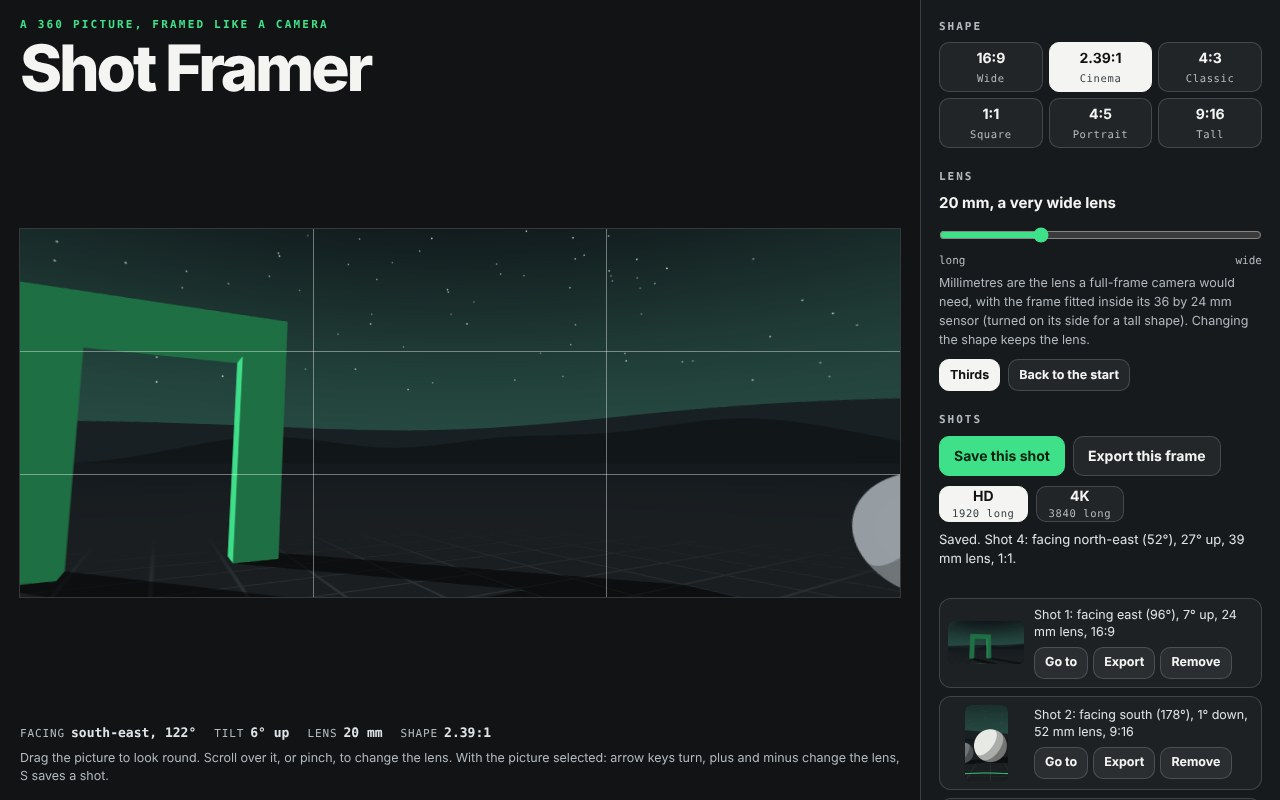
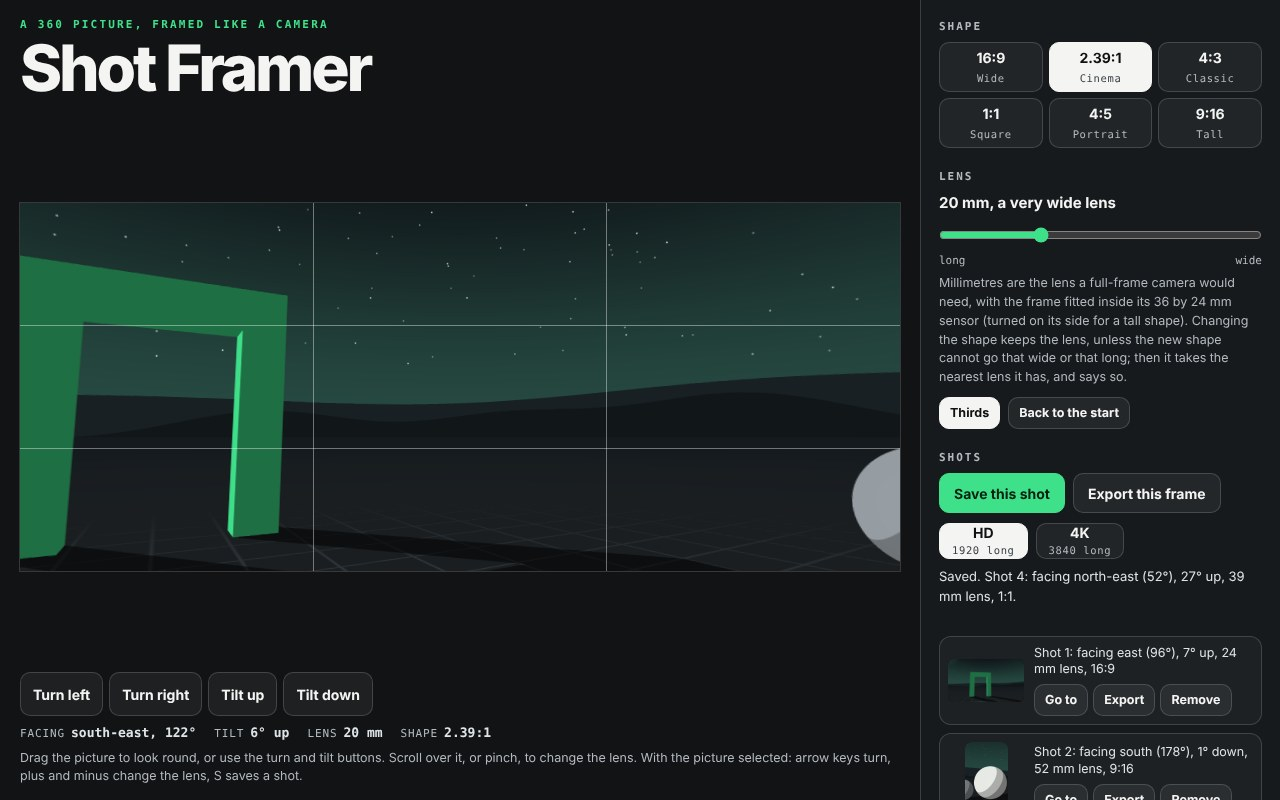
Shot Framer: act on the outside review
- Changing the shape at either end of the lens range now says when the
  new shape cannot keep the lens and what it used instead (reshape and
  lensRange in pano.js, tested at every whole degree and both ends).
- A picture that finishes opening after a later choice, or after Back to
  the sample, is thrown away; tested with a held-back decoder.
- Turn left, Turn right, Tilt up and Tilt down buttons, 44 px or more,
  so looking round does not need dragging.
- The on-screen pixel check now compares every pixel, not the first 1,000.
- README Status and REVIEW.md say plainly that merging puts the unlisted
  page live at its own address; REVIEW.md records the outside review.

Claude-Session: https://claude.ai/code/session_013B6jEDQfd86RBiChYmYX6U

diff --git a/demos/shot-framer/js/app.js b/demos/shot-framer/js/app.js
@@ -6,7 +6,7 @@ const el = (tag, props = {}, ...kids) => { const n = Object.assign(document.crea
 const blank = (w, h) => ({ data: new Uint8ClampedArray(w * h * 4), width: w, height: h });
 const view = $('view'), ctx = view.getContext('2d', { willReadFrequently: true }), frame = $('frame'), well = $('well');
 
-let src = null, srcName = 'sample', view0 = { ...P.HOME }, shape = '16:9', shots = [], count = 0, frames = 0, sharp = null, busy = false, job = 0;
+let src = null, srcName = 'sample', view0 = { ...P.HOME }, shape = '16:9', shots = [], count = 0, frames = 0, sharp = null, busy = false, job = 0, asked = 0; /* asked counts the pictures asked for: a picture that finishes opening after a later one was asked for is thrown away */
 const own = () => srcName !== 'sample'; /* your own picture has no north: its middle is called ahead */
 const ratio = () => { const a = P.aspectOf(shape); return a.w / a.h; };
 const say = text => { $('status').textContent = text; };
@@ -26,15 +26,19 @@ function read() { const d = P.describe(view0, shape, own()), mm = Math.round(P.l
   $('r-head').textContent = `${d.compass}, ${d.heading}`; $('r-tilt').textContent = d.tilt; $('r-lens').textContent = d.lens; $('r-shape').textContent = d.shape; $('lens-words').textContent = `${mm} mm, ${kind}`; $('fov').value = String(Math.round(view0.fov)); $('fov').setAttribute('aria-valuetext', `${mm} millimetres, ${kind}`);
   view.setAttribute('aria-label', `The frame: facing ${d.compass}, ${d.heading.replace('°', ' degrees')}, ${d.tilt.replace('°', ' degrees')}, ${d.lens.replace(' mm', ' millimetre')} lens, shape ${d.shape.replace(':', ' by ')}.`); }
 function turn(change) { view0 = P.tidy({ yaw: view0.yaw + (change.yaw || 0), pitch: view0.pitch + (change.pitch || 0), fov: change.fov ?? view0.fov * (change.zoom || 1) }); paint(); }
-/* Changing the shape keeps the lens, as turning a camera on its side does: the view is worked out again for the new shape from the same millimetres. Going to a saved shot takes that shot's view as it was saved. */
-function setShape(id, to = null) { const mm = P.lens(view0.fov, ratio()); shape = P.aspectOf(id).id; view0 = P.tidy(to ? { ...to } : { ...view0, fov: P.fovFor(mm, ratio()) }); for (const i of document.querySelectorAll('input[name="shape"]')) i.checked = i.value === shape; fit(); }
+/* Changing the shape keeps the lens, as turning a camera on its side does: the view is worked out again for the new shape from the same millimetres. Going to a saved shot takes that shot's view as it was saved.
+   At the very ends of the lens range a shape cannot always have the lens the last one had (no 9:16 frame is as wide as the widest 16:9). Then it takes the nearest lens it has, and the page says so. */
+function setShape(id, to = null) { const next = P.aspectOf(id).id, r = to ? null : P.reshape(view0, shape, next); shape = next; view0 = to ? P.tidy({ ...to }) : r.view; for (const i of document.querySelectorAll('input[name="shape"]')) i.checked = i.value === shape; fit(); return r; }
+const shaped = r => { clearTimeout(telling); return shapeWords(r); }; /* a pending "Facing ..." from the keys would otherwise speak over this */
+const shapeWords = r => `Shape ${shape.replace(':', ' by ')}.` + (r && !r.kept ? ` A ${shape.replace(':', ' by ')} frame cannot go as ${r.got > r.mm ? 'wide' : 'long'} as ${Math.round(r.mm)} mm, so the lens is now ${Math.round(r.got)} mm, the ${r.got > r.mm ? 'widest' : 'longest'} it has.` : '');
 
 /* ---- The picture ---- */
 /* The sample is worked out a direction at a time. A small one first, so there is something to look at straight away; then a large one, a slice at a time, swapped in when it is done. */
-function useSample() { const mine = ++job, quick = blank(1024, 512); quick.sample = 'soft'; P.paintSample(quick); src = quick; srcName = 'sample'; $('pic').textContent = 'The sample: a sculpture park at night, drawn by this page. Sharpening it…'; $('sample').hidden = true; paint();
+function useSample() { asked++; const mine = ++job, quick = blank(1024, 512); quick.sample = 'soft'; P.paintSample(quick); src = quick; srcName = 'sample'; $('pic').textContent = 'The sample: a sculpture park at night, drawn by this page. Sharpening it…'; $('sample').hidden = true; paint();
   const full = blank(4096, 2048); let row = 0; const slice = () => { if (mine !== job) return; const to = Math.min(full.height, row + 48); P.paintSample(full, [row, to]); row = to; if (row < full.height) { $('pic').textContent = `The sample: a sculpture park at night, drawn by this page. Sharpening it: ${Math.round(row / full.height * 100)}%`; setTimeout(slice, 0); } else { src = full; $('pic').textContent = 'The sample: a sculpture park at night, drawn by this page, 4096 by 2048.'; paint(); thumbs(); } }; setTimeout(slice, 60); list(); }
 const kept = () => (shots.length ? ` Your ${shots.length === 1 ? 'saved shot is' : `${shots.length} saved shots are`} kept: a shot is a direction and a lens, so ${shots.length === 1 ? 'it' : 'each'} now frames this picture.` : '');
-async function useFile(file) { if (!file) return; if (!/^image\//.test(file.type)) { say('That is not a picture this page can open.'); return; } let bmp; try { bmp = await createImageBitmap(file); } catch (err) { say('That picture could not be opened.'); return; }
+async function useFile(file) { if (!file) return; const mine = ++asked; if (!/^image\//.test(file.type)) { say('That is not a picture this page can open.'); return; } let bmp; try { bmp = await createImageBitmap(file); } catch (err) { if (mine === asked) say('That picture could not be opened.'); return; }
+  if (mine !== asked) { bmp.close(); return; } /* another picture, or the sample, was asked for while this one was opening: the later choice stands */
   const bw = bmp.width, bh = bmp.height; if (bw < 64 || bh < 32) { bmp.close(); say(`That picture is ${bw} by ${bh}, which is too small to frame.`); return; }
   const k = Math.min(1, 8192 / bw, 4096 / bh), w = Math.max(2, Math.round(bw * k)), h = Math.max(1, Math.round(bh * k)); let img; try { const c = document.createElement('canvas'); c.width = w; c.height = h; const g = c.getContext('2d', { willReadFrequently: true }); g.drawImage(bmp, 0, 0, w, h); img = g.getImageData(0, 0, w, h); } catch (err) { say('That picture is too large for this device to open.'); return; } finally { bmp.close(); }
   job++; src = { data: img.data, width: w, height: h }; srcName = file.name;
@@ -62,7 +66,7 @@ async function put(shot, word = 'shot') { try { say(`Drawing ${word} ${shot.n}.`
 async function save(shot, word = 'shot') { if (!src) return null; if (busy) { say('Still exporting. Wait for it to finish.'); return null; } lock(true); const made = await put(shot, word); lock(false); return made; }
 
 /* ---- Controls ---- */
-$('shapes').append(...P.ASPECTS.map(a => el('label', { className: 'seg' }, el('input', { type: 'radio', name: 'shape', value: a.id, checked: a.id === shape, onchange: () => { setShape(a.id); say(`Shape ${a.id.replace(':', ' by ')}.`); } }), el('span', {}, a.id, el('small', { textContent: a.name })))));
+$('shapes').append(...P.ASPECTS.map(a => el('label', { className: 'seg' }, el('input', { type: 'radio', name: 'shape', value: a.id, checked: a.id === shape, onchange: () => say(shaped(setShape(a.id))) }), el('span', {}, a.id, el('small', { textContent: a.name })))));
 const fingers = new Map(); let spread = 0, grab = null;
 const place = e => { const box = view.getBoundingClientRect(); return [(e.clientX - box.left) / box.width * 2 - 1, 1 - (e.clientY - box.top) / box.height * 2]; }; /* where in the frame a pointer is: -1 to 1 across, -1 to 1 up */
 view.addEventListener('pointerdown', e => { e.preventDefault(); view.focus({ preventScroll: true }); try { view.setPointerCapture(e.pointerId); } catch (err) { /* works without */ } fingers.set(e.pointerId, [e.clientX, e.clientY]); view.classList.add('drag'); grab = fingers.size === 1 ? P.look(view0, ...place(e), ratio()) : null; if (fingers.size === 2) { const [a, b] = [...fingers.values()]; spread = Math.hypot(a[0] - b[0], a[1] - b[1]); } });
@@ -75,8 +79,10 @@ view.addEventListener('wheel', e => { if (stacked.matches && document.activeElem
 const home = () => { view0 = shape === '16:9' ? { ...P.HOME } : P.tidy({ ...P.HOME, fov: P.fovFor(P.lens(P.HOME.fov, 16 / 9), ratio()) }); paint(); }; /* the start: straight ahead, a little up, through a 24 mm lens whatever the shape */
 let telling = null; const tell = () => { clearTimeout(telling); telling = setTimeout(() => { const d = P.describe(view0, shape, own()); say(`Facing ${d.compass}, ${d.heading}, ${d.tilt}, ${d.lens} lens.`); }, 450); }; /* after the keys have moved the frame, say where it now looks, once they have stopped */
 view.addEventListener('keydown', e => { if (e.ctrlKey || e.metaKey || e.altKey) return; const by = e.shiftKey ? 1 : 5, key = e.key.length === 1 ? e.key.toLowerCase() : e.key, move = { ArrowLeft: { yaw: -by }, ArrowRight: { yaw: by }, ArrowUp: { pitch: by }, ArrowDown: { pitch: -by }, '+': { zoom: 0.9 }, '=': { zoom: 0.9 }, '-': { zoom: 1.1 } }[key];
-  if (move) { turn(move); tell(); e.preventDefault(); } else if (key === 'Home') { home(); tell(); e.preventDefault(); } else if (key === 's') keep(); else if (key === 'g') $('grid').click(); else if (/^[1-6]$/.test(key)) { setShape(P.ASPECTS[+key - 1].id); say(`Shape ${shape.replace(':', ' by ')}.`); } });
+  if (move) { turn(move); tell(); e.preventDefault(); } else if (key === 'Home') { home(); tell(); e.preventDefault(); } else if (key === 's') keep(); else if (key === 'g') $('grid').click(); else if (/^[1-6]$/.test(key)) say(shaped(setShape(P.ASPECTS[+key - 1].id))); });
 $('fov').addEventListener('input', e => turn({ fov: +e.target.value }));
+/* Buttons that turn and tilt the frame by 10 degrees a press: a way to look round with one tap or click, for anyone who cannot drag. */
+for (const b of document.querySelectorAll('#turns button')) b.addEventListener('click', () => { turn({ yaw: +(b.dataset.yaw || 0), pitch: +(b.dataset.pitch || 0) }); tell(); });
 $('grid').addEventListener('click', () => { const on = $('thirds').hidden; $('thirds').hidden = !on; $('grid').setAttribute('aria-pressed', String(on)); });
 $('home').addEventListener('click', () => { home(); say('Back to the start.'); });
 $('save').addEventListener('click', keep); $('export').addEventListener('click', () => { if (!busy) frames++; save({ n: frames, view: { ...view0 }, shape }, 'frame'); }); /* the frame as it stands, without saving a shot: its files are numbered on their own, frame-01, frame-02 */
@@ -91,6 +97,6 @@ list(); useSample(); fit();
 window.shotFramer = { /* for the checks in tools/ */
   state: () => ({ view: { ...view0 }, shape, shots: shots.map(s => ({ n: s.n, view: { ...s.view }, shape: s.shape })), src: src ? { width: src.width, height: src.height, name: srcName } : null, canvas: { w: view.width, h: view.height }, busy, frames, mm: P.lens(view0.fov, ratio()) }),
   set(v, id) { if (id) setShape(id, { ...view0, ...v }); else { view0 = P.tidy({ ...view0, ...v }); paint(); } paint(false); }, make: (shot, long) => make(shot, long).then(m => m.blob.arrayBuffer().then(b => { let sum = 0; for (let i = 0; i < m.data.length; i += 7) sum = (sum * 31 + m.data[i]) >>> 0; return { name: m.name, size: m.size, bytes: b.byteLength, head: [...new Uint8Array(b.slice(0, 26))], sum, soft: m.soft }; })),
-  use(w, h, rgb) { job++; const data = new Uint8ClampedArray(w * h * 4); for (let i = 0; i < data.length; i += 4) { data[i] = rgb[0]; data[i + 1] = rgb[1]; data[i + 2] = rgb[2]; data[i + 3] = 255; } src = { data, width: w, height: h }; srcName = 'test'; paint(); list(); }, /* swap in a plain picture of one colour: for checking that a file being drawn is not disturbed */
-  pixels(w, h) { const img = blank(w, h); P.render(src, view0, img); return [...img.data]; }, shown() { clearTimeout(sharp); paint(false); return [...ctx.getImageData(0, 0, view.width, view.height).data.slice(0, 4000)]; },
+  use(w, h, rgb) { asked++; job++; const data = new Uint8ClampedArray(w * h * 4); for (let i = 0; i < data.length; i += 4) { data[i] = rgb[0]; data[i + 1] = rgb[1]; data[i + 2] = rgb[2]; data[i + 3] = 255; } src = { data, width: w, height: h }; srcName = 'test'; paint(); list(); }, /* swap in a plain picture of one colour: for checking that a file being drawn is not disturbed */
+  pixels(w, h) { const img = blank(w, h); P.render(src, view0, img); return [...img.data]; }, shown() { clearTimeout(sharp); paint(false); const d = ctx.getImageData(0, 0, view.width, view.height).data; let s = ''; for (let i = 0; i < d.length; i += 0x8000) s += String.fromCharCode(...d.subarray(i, i + 0x8000)); return btoa(s); }, /* every pixel on screen, packed as text so that a large frame comes across quickly */
 };

diff --git a/demos/shot-framer/index.html b/demos/shot-framer/index.html
@@ -34,6 +34,8 @@
   #thirds { position:absolute; inset:0; pointer-events:none; background:linear-gradient(to right, transparent calc(33.333% - .5px), rgba(255,255,255,.4) calc(33.333% - .5px), rgba(255,255,255,.4) calc(33.333% + .5px), transparent calc(33.333% + .5px), transparent calc(66.666% - .5px), rgba(255,255,255,.4) calc(66.666% - .5px), rgba(255,255,255,.4) calc(66.666% + .5px), transparent calc(66.666% + .5px)), linear-gradient(to bottom, transparent calc(33.333% - .5px), rgba(255,255,255,.4) calc(33.333% - .5px), rgba(255,255,255,.4) calc(33.333% + .5px), transparent calc(33.333% + .5px), transparent calc(66.666% - .5px), rgba(255,255,255,.4) calc(66.666% - .5px), rgba(255,255,255,.4) calc(66.666% + .5px), transparent calc(66.666% + .5px)); }
   #read { display:flex; flex-wrap:wrap; gap:6px 18px; align-items:baseline; margin:0; font:600 13px/1.4 var(--mono); color:var(--soft); font-variant-numeric:tabular-nums; } #read span b { color:var(--muted); font-weight:500; margin-right:6px; letter-spacing:.08em; text-transform:uppercase; font-size:11px; }
   #hint { margin:6px 0 0; font-size:12.5px; color:var(--muted); }
+  #turns { display:grid; grid-template-columns:repeat(4, max-content); gap:6px; margin:0 0 8px; } .btn.turn { min-height:44px; min-width:44px; padding:0 12px; }
+  @media (max-width:420px) { #turns { grid-template-columns:1fr 1fr; } }
 
   /* The panel: shape, lens, shots. */
   #panel { border-left:1px solid var(--line); background:var(--panel); padding:18px 18px 28px; min-width:0; }
@@ -71,8 +73,9 @@
     </div>
   </div>
   <div>
+    <div class="row" id="turns" role="group" aria-label="Turn and tilt the frame, 10 degrees a press"><button class="btn turn" type="button" data-yaw="-10">Turn left</button><button class="btn turn" type="button" data-yaw="10">Turn right</button><button class="btn turn" type="button" data-pitch="10">Tilt up</button><button class="btn turn" type="button" data-pitch="-10">Tilt down</button></div>
     <p id="read" aria-hidden="true"><span><b>Facing</b><span id="r-head">north, 0°</span></span><span><b>Tilt</b><span id="r-tilt">level</span></span><span><b>Lens</b><span id="r-lens">24 mm</span></span><span><b>Shape</b><span id="r-shape">16:9</span></span></p>
-    <p id="hint">Drag the picture to look round. Scroll over it, or pinch, to change the lens. With the picture selected: arrow keys turn, plus and minus change the lens, S saves a shot.</p>
+    <p id="hint">Drag the picture to look round, or use the turn and tilt buttons. Scroll over it, or pinch, to change the lens. With the picture selected: arrow keys turn, plus and minus change the lens, S saves a shot.</p>
   </div>
 </main>
 
@@ -84,7 +87,7 @@
   <p class="lens" id="lens-words" aria-hidden="true">24 mm, a wide lens</p>
   <input id="fov" type="range" min="12" max="110" step="1" value="46" aria-labelledby="lens-h" aria-describedby="lens-note">
   <div class="ends" aria-hidden="true"><span>long</span><span>wide</span></div>
-  <p class="note" id="lens-note">Millimetres are the lens a full-frame camera would need, with the frame fitted inside its 36 by 24 mm sensor (turned on its side for a tall shape). Changing the shape keeps the lens.</p>
+  <p class="note" id="lens-note">Millimetres are the lens a full-frame camera would need, with the frame fitted inside its 36 by 24 mm sensor (turned on its side for a tall shape). Changing the shape keeps the lens, unless the new shape cannot go that wide or that long; then it takes the nearest lens it has, and says so.</p>
   <div class="row" style="margin-top:10px"><button class="btn small" id="grid" type="button" aria-pressed="true">Thirds</button><button class="btn small" id="home" type="button">Back to the start</button></div>
 
   <h2>Shots</h2>

diff --git a/demos/shot-framer/js/pano.js b/demos/shot-framer/js/pano.js
@@ -31,6 +31,12 @@ export const sensorHeight = ratio => (ratio >= 1.5 ? 36 / ratio : ratio >= 1 ? 2
 export const lens = (fov, ratio) => sensorHeight(ratio) / 2 / Math.tan(fov * RAD / 2);
 // And back: how tall the view is through a lens of so many millimetres. Changing the shape keeps the lens, as turning or cropping a camera does.
 export const fovFor = (mm, ratio) => 2 * Math.atan(sensorHeight(ratio) / 2 / mm) / RAD;
+// The lenses a shape can have, widest first, in millimetres: the view's limits in degrees are the same for every shape, so the lenses are not.
+export const lensRange = id => { const a = aspectOf(id), r = a.w / a.h; return [lens(LIMITS.fov[1], r), lens(LIMITS.fov[0], r)]; };
+// Changing the shape from one to another: the view keeps its lens if the new shape can have it. If it cannot (the widest 16:9 lens is wider than any 9:16 can be), the view takes the nearest lens the new shape has,
+// and kept is false, so that the page can say so. mm is the lens before, got the lens after.
+export function reshape(view, fromId, toId) { const a = aspectOf(fromId), b = aspectOf(toId), mm = lens(view.fov, a.w / a.h), v = tidy({ ...view, fov: fovFor(mm, b.w / b.h) }), got = lens(v.fov, b.w / b.h);
+  return { view: v, mm, got, kept: Math.abs(got - mm) < 1e-6 * mm }; }
 // Dragging: the view, near this one, that puts the direction d at the place (x, y) of the frame. What you take hold of stays under your finger, at any lens and any tilt.
 export function dragTo(view, d, x, y, ratio) { let v = tidy(view); const miss = w => { const p = inFrame(w, d, ratio); return p ? [p.x - x, p.y - y] : null; };
   for (let i = 0; i < 8; i++) { const e = miss(v); if (!e || Math.hypot(e[0], e[1]) < 1e-5) break; const h = 0.05, a = miss({ ...v, yaw: v.yaw + h }), b = miss({ ...v, pitch: v.pitch + h }); if (!a || !b) break;

diff --git a/demos/shot-framer/REVIEW.md b/demos/shot-framer/REVIEW.md
@@ -5,7 +5,7 @@ Built 17 November 2026 by Claude Fable 5.2 in a Claude Code cloud session. Revie
 
 ## Verdict
 
-Ready for Kol to try. Not published, not in the gallery or the sitemap.
+Ready for Kol to try. An unlisted draft: not in the gallery or the sitemap. It is not live yet, but merging it would put it on the live site at its own address, reachable by anyone with the link.
 
 **It has never been given a real 360 photograph.** Every picture it has framed was made for the checks or worked out by the page. The arithmetic is checked to the pixel; how a real stitched photograph looks through it, and how it feels to use, are unproved.
 
@@ -22,22 +22,23 @@ Ready for Kol to try. Not published, not in the gallery or the sitemap.
 
 ## Checks run (17 Nov 2026)
 
-Verified by running. All passed on the code as committed.
+Verified by running. All passed on the code as committed, and again after the outside review's fixes (below).
 
 - `node demos/shot-framer/tools/pano.test.mjs`: pass.
   - Directions: compass points, the edges of a frame, 500 round trips between frame, direction and picture. Straight lines stay straight.
   - The lens in millimetres for a frame fitted inside a 36 by 24 mm sensor: 55 degrees tall is 19.4 mm in 16:9, 14.5 mm in 2.39:1, 34.6 mm in 9:16.
-  - The lens is kept across all 36 changes of shape.
+  - The lens is kept across all 36 changes of shape, except where the new shape cannot have it. Checked at every whole degree of the slider: then the new lens is the nearest the shape has. At each end of the slider 14 changes cannot keep the lens, counted by hand; the widest 16:9 lens, 7.09 mm, becomes 12.60 mm in 9:16.
   - 20 drags, at lenses from 30 to 110 degrees, level and tilted: what was taken hold of ends under the pointer to a thousandth of the frame.
   - Drawing: a dot lands in the middle and moves as it should; turning equals sliding; no join where the edges meet; the poles; slices equal the whole.
   - Stripes one pixel wide, seen through a very wide lens in a small frame, come out an even grey.
   - The sample: the same every time, no join, eight things where they should be, the ring all the way round, shadows away from the moon, smooth edges, stars spread evenly.
 - `node demos/shot-framer/tools/smoke.mjs`: pass, in headless Chromium.
-  - The frame on screen matches the arithmetic pixel for pixel in all six shapes.
-  - Dragging with a mouse at an ordinary lens and at 110 degrees tilted keeps hold of what was touched. Changing the shape keeps the lens. Wheel, keys, slider and number keys work and stay within limits. After the keys move the frame, the page says where it looks.
+  - The frame on screen matches the arithmetic pixel for pixel in all six shapes, every pixel of the frame (until the outside review, only the first 1,000 pixels were read).
+  - Dragging with a mouse at an ordinary lens and at 110 degrees tilted keeps hold of what was touched. Changing the shape keeps the lens. Through the shape buttons and number keys at both ends of the lens, where it cannot, the page takes the nearest lens and says so in words. Four buttons, each at least 44 by 44 px, turn and tilt the frame 10 degrees a click, and 10 degrees a tap on three phone sizes. Wheel, keys, slider and number keys work and stay within limits. After the keys move the frame, the page says where it looks.
   - Three exported files are PNGs of the size asked whose pixels are the shot, drawn again by the check from the whole picture.
   - The frame as it stands exports as `frame-01`, `frame-02`. Export all sends each shot once, in order, with every other export button off; the status line changes at most 8 times for three files.
   - A file being drawn while another picture is loaded is made wholly from the picture it started with.
+  - A picture that finishes opening after a later one was chosen, or after Back to the sample, is thrown away. The test holds each picture's opening back and releases it in the wrong order.
   - Your own picture: its middle is straight ahead; shots read ahead, right, behind, left; a wrong shape is warned about; too small a picture and a file that is not a picture are refused in words.
   - Phones 390x800, 320x568 and 740x360, a 320 window, 900x700 and 1920x1080: the frame fits in every shape; a finger keeps hold of what it touched; Go to brings the frame back into sight; the wheel scrolls a narrow page until the picture is selected.
   - axe WCAG 2.2 A and AA at seven sizes, no console errors, no outside requests.
@@ -51,6 +52,8 @@ Verified by running. All passed on the code as committed.
 4. Safari and Firefox. A real screen reader.
 5. The fallback when copying the list is not allowed: headless Chromium always allowed it.
 6. Dropping a file on the page while an export is running, by hand.
+7. The turn and tilt buttons with a real finger, and whether 10 degrees a press is a comfortable step.
+8. The site's automatic checks on a pull request do not run this demo's own two tests (`pano.test.mjs`, `smoke.mjs`); they were run by hand here. Wiring them in means changing the site's shared workflow, which is outside this demo's folder.
 
 ## Known limits
 
@@ -88,6 +91,20 @@ A second pass by a separate Claude agent (Opus), read-only, given the brief and 
 | 19 | Placeholder text said 24 mm where the value was 23 | The start is now a 24 mm lens | browser check |
 | 20 | After Remove the focus went to the first shot | It goes to the shot that took its place | browser check |
 | 21 | A small frame on a sideways phone | Not changed. Listed under known limits | |
+
+## Outside review
+
+ChatGPT in chat mode at Pro, driven by another Claude session at Kol's request, reviewed this demo together with Kitchen Line on 17 November 2026. It read the code and the pictures and did not run the page. Score 6/10 for the pair, verdict HOLD. Each finding below was checked by running the page or the arithmetic before anything was changed; the first four were reproduced on the code as it was.
+
+| Finding | What was done | Held by |
+|---|---|---|
+| Changing the shape at the widest lens silently changes it: 16:9 at 7.09 mm becomes 12.60 mm in 9:16 | True, and at the long end too (171.26 mm in 9:16 becomes 71.66 mm in 2.39:1); 411 of the 3,564 pairs of slider position and shape change cannot keep the lens. The slider's limits are in degrees, the same for every shape, so the lenses differ. The lens range was not cut down, which would have lost the widest 16:9 views. Instead the new shape takes the nearest lens it has and the page says so: "A 9 by 16 frame cannot go as wide as 7 mm, so the lens is now 13 mm, the widest it has." The note under the slider and the README say so too. A pending "Facing ..." line from the keys no longer speaks over it | arithmetic test: every whole degree, every change of shape, hand-worked millimetres at both ends and 14 changes at each end; browser check: shape buttons and number keys at both ends, the words on the page |
+| An older picture finishing after a newer choice replaces it, also after Back to the sample | True: reproduced with a held-back decoder, the first picture replaced the second and replaced the sample. Each choice now gets a number; a picture that finishes opening after a later choice is thrown away | browser check with a decoder the test holds and releases in the wrong order, both cases |
+| Touch users can only look round by dragging; keys are not a single-pointer alternative (WCAG 2.2, 2.5.7) | True. Turn left, Turn right, Tilt up and Tilt down buttons under the frame, at least 44 by 44 px, 10 degrees a press | browser check: click at 1280, tap on three phone sizes, sizes measured; axe |
+| The "pixel for pixel" screen check reads only the first 1,000 pixels | True: `shown()` returned the first 4,000 values. It now returns every pixel of the frame and the check compares them all | browser check, which also checks the count |
+| No real stitched panorama imported, framed, saved and exported on a real desktop and phone | Not done. There is no real phone or real 360 photograph here, and none may be fetched. Still listed under Not verified | |
+| Both demos: the dedicated tests do not run in the site's automatic checks | True. Not done: it means changing the site's shared workflow, which is outside this demo's folder. Needs Kol. Listed under Not verified | |
+| Both demos: unlisted will still mean reachable once deployed | True. README Status and the verdict above now say that merging puts the page live at its own address, unlisted but reachable by anyone with the link | |
 
 ## Provenance
 

diff --git a/demos/shot-framer/README.md b/demos/shot-framer/README.md
@@ -9,9 +9,9 @@ Use it as the reference for image tools and anything that exports files.
 
 ## What it does
 
-- **Look round.** Drag the picture, or use the arrow keys. What you take hold of stays under your finger, at any lens and any tilt: the view is worked out so that it does.
+- **Look round.** Drag the picture, use the arrow keys, or tap the Turn left, Turn right, Tilt up and Tilt down buttons under it (10 degrees a press), so that nobody has to drag. What you take hold of stays under your finger, at any lens and any tilt: the view is worked out so that it does.
 - **Change the lens.** Scroll over the picture, pinch, use plus and minus, or move the slider. On a narrow window, where the page has to be scrolled past the picture, the wheel changes the lens only once the picture is selected.
-- **The lens in millimetres** is the lens a full-frame camera would need, with the frame fitted inside its 36 by 24 mm sensor, turned on its side for a tall shape. Changing the shape keeps the lens, as turning a camera does.
+- **The lens in millimetres** is the lens a full-frame camera would need, with the frame fitted inside its 36 by 24 mm sensor, turned on its side for a tall shape. Changing the shape keeps the lens, as turning a camera does, except at the ends of the lens range: no 9:16 frame is as wide as the widest 16:9 one (7 mm against 13 mm), and no 2.39:1 frame is as long as the longest 9:16 one (171 mm against 72 mm). Then the new shape takes the nearest lens it has and the page says so, for example "A 9 by 16 frame cannot go as wide as 7 mm, so the lens is now 13 mm, the widest it has."
 - **Choose a shape.** 16:9, 2.39:1, 4:3, 1:1, 4:5 or 9:16. The frame on screen is the shape of the picture you will get.
 - **Save shots.** Each is listed with a small picture and a line a director could read out: "Shot 1: facing east (90°), 8° up, 23 mm lens, 16:9". The list can be copied as text.
 - **Export.** Any shot, or the frame in hand, as a PNG with its longer side 1920 or 3840 pixels. The picture is drawn again at full size from the whole 360 picture, not copied from the screen. One file is drawn at a time, from the picture that was loaded when it began. Saved shots are named `shot-01-…`; the frame in hand, exported without saving, is `frame-01-…`.
@@ -21,7 +21,7 @@ Use it as the reference for image tools and anything that exports files.
 ## How it is made
 
 - `js/pano.js`: the arithmetic. Which way each point of a frame looks, where that falls in a 360 picture, the lens in millimetres, the view that keeps a dragged point under the pointer, export sizes, and the drawing of a frame pixel by pixel. A wide lens on a large picture reads from a smaller copy of it, made when first needed, so that fine detail does not shimmer. Also the sample picture. No page and no drawing surface, so it all runs in Node.
-- `js/app.js`: the page. While you are moving the frame it is drawn coarse so that it keeps up, and at full sharpness a moment after you stop. Exports are drawn a slice at a time so the page stays awake.
+- `js/app.js`: the page. If a second picture is chosen, or Back to the sample pressed, while one is still opening, the one still opening is thrown away when it finishes: the latest choice stands. While you are moving the frame it is drawn coarse so that it keeps up, and at full sharpness a moment after you stop. Exports are drawn a slice at a time so the page stays awake.
 - No library, no WebGL, no outside request, nothing stored.
 
 ## Checks
@@ -49,10 +49,13 @@ The second and third need the site's development packages (Playwright and axe-co
 - An exported frame can be no sharper than the 360 picture it comes from. A long lens on a small picture will be soft.
 - "Export all" sends one file after another. Some browsers ask before allowing several downloads.
 - The lens in millimetres assumes the frame is a crop of a full-frame sensor. It is a guide, not a calibration.
+- The lens slider runs over the same angles for every shape, so the lenses each shape can have differ (16:9 from 7 to 96 mm, 9:16 from 13 to 171 mm). At the ends, changing the shape changes the lens, and the page says so.
 - The smaller copies that stop shimmer are chosen for the middle of the frame. Looking nearly straight up or down through a very wide lens, the corners can still shimmer a little.
 - On a phone held sideways the frame is small, and the controls are below it.
 - Checked only in headless Chromium. Not yet seen in Safari or Firefox, on a real phone, or with a real screen reader, and nobody has yet used it by hand. It has not been tried with a real 360 photograph, only with pictures made for the checks.
 
 ## Status
 
-Unlisted. The page carries `noindex`, and it is not in the gallery or the sitemap. Nothing here is published.
+Unlisted draft. The page carries `noindex`, and it is not in the gallery or the sitemap.
+
+It is not live yet, but the site deploys whatever is merged. Merging this would put the page on the live site at its own address, `/demos/shot-framer/`: unlisted, but reachable by anyone who has the link.
